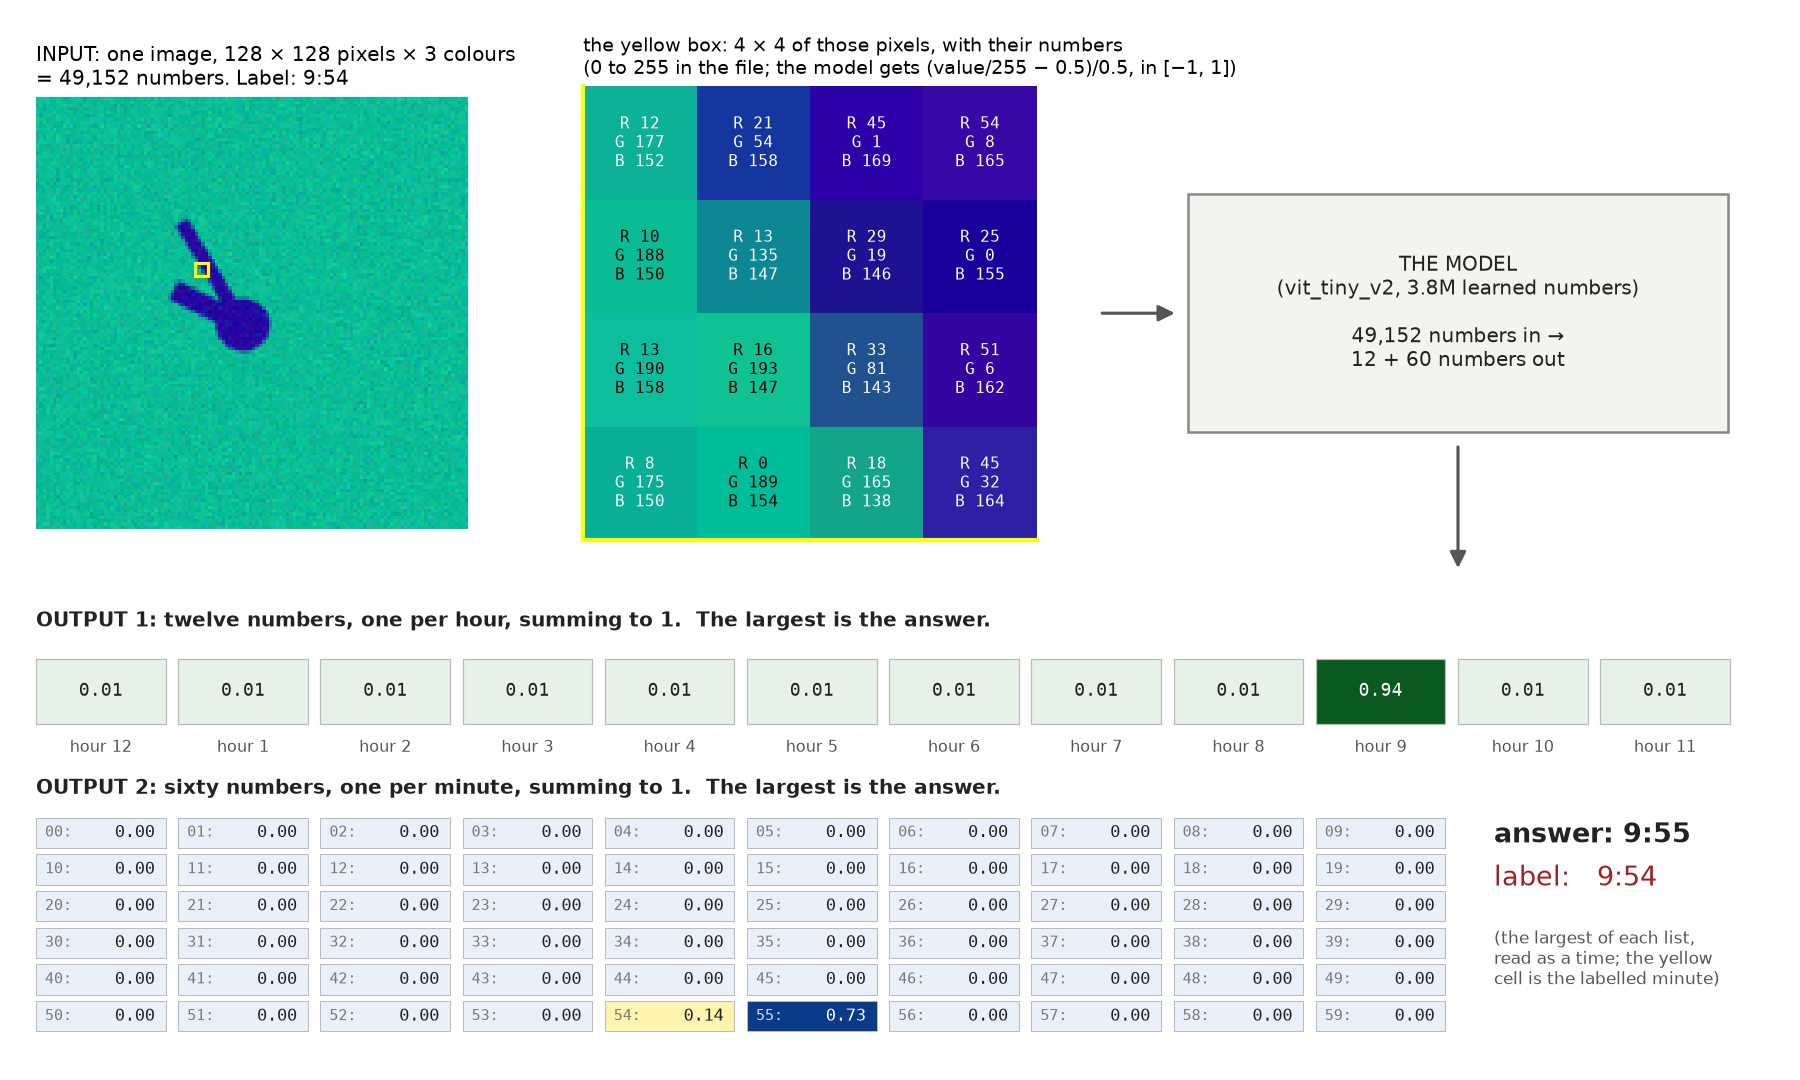
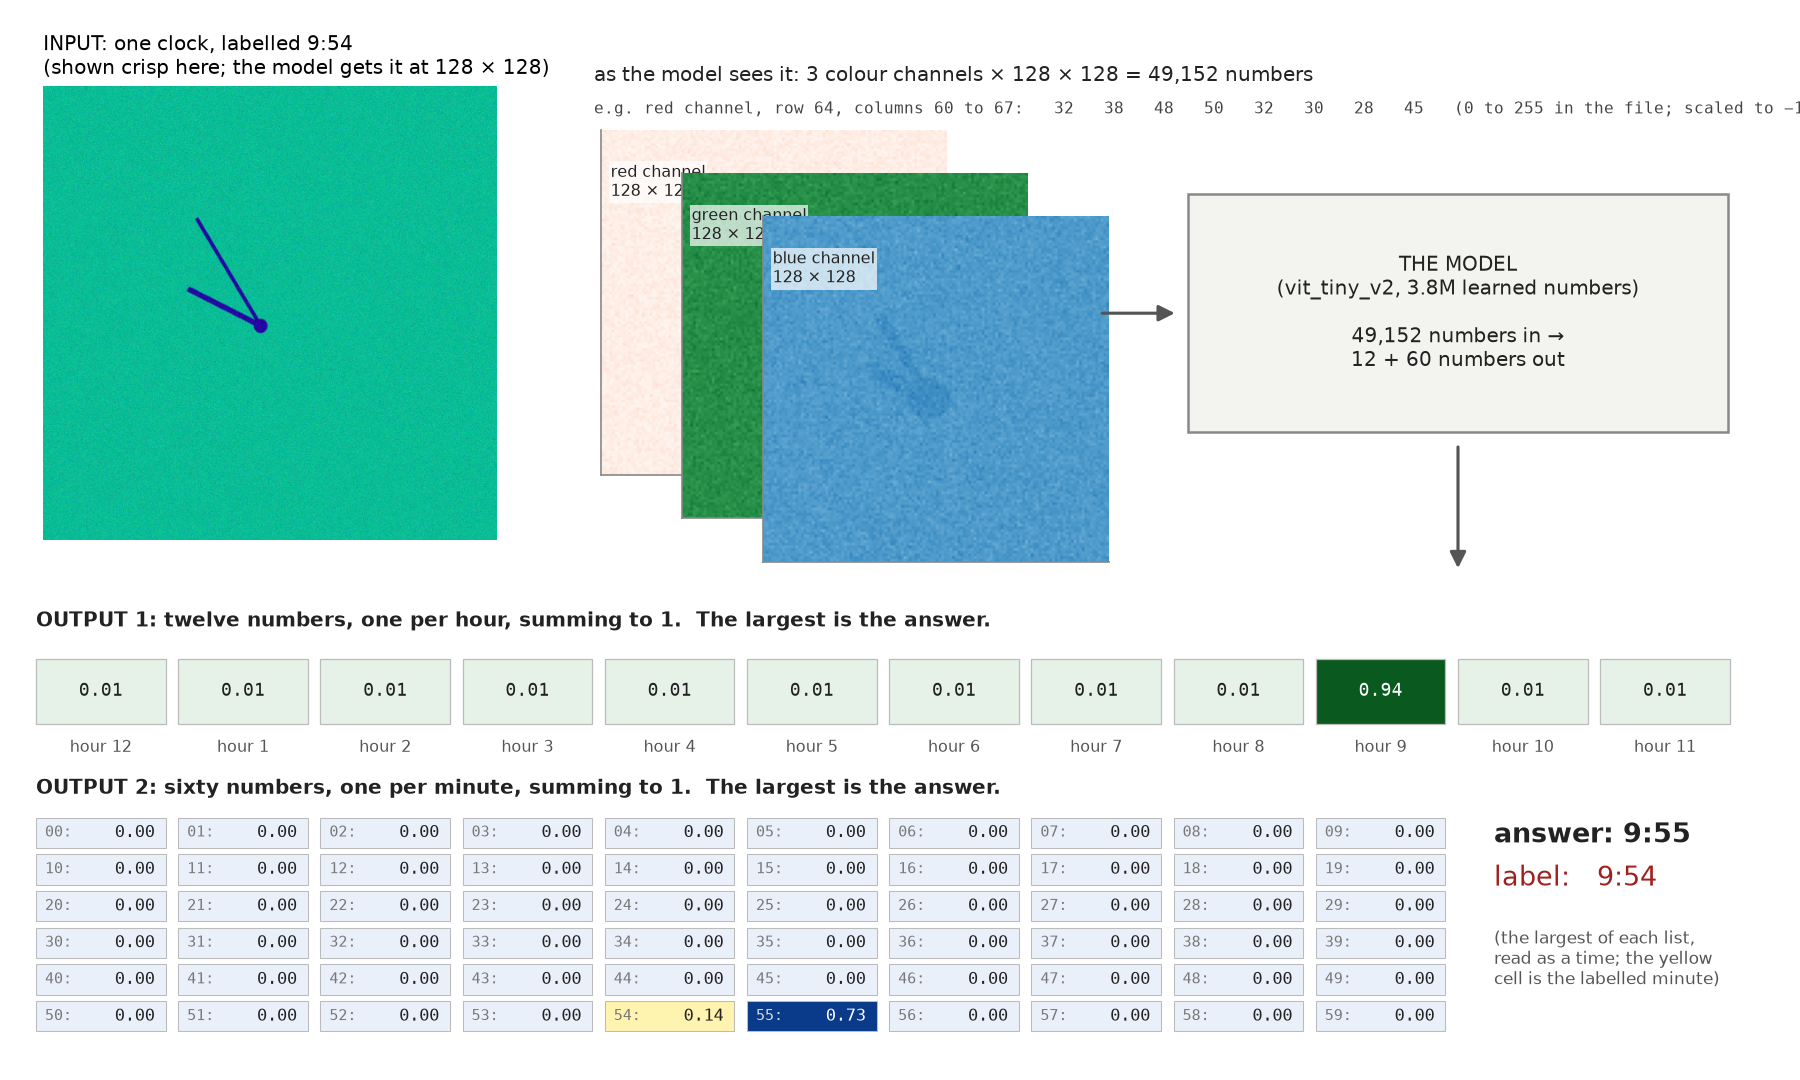
Input shown as channels, not blown-up pixels

diff --git a/_posts/2026-09-15-clocks-part-2-models.md b/_posts/2026-09-15-clocks-part-2-models.md
@@ -127,13 +127,13 @@ for the minute, each list summing to one. The model's answer is the
 largest entry in each list.
 
 Here is what that means as literal numbers, for one held-out clock. The
-yellow box on the image is 16 of its 16,384 pixels, and the enlarged block
-shows the three numbers each of those pixels is made of. Those, times
-16,384, are what the model receives. What it returns is printed below the
-model: twelve numbers and sixty numbers. Its answer is the largest of each
-list.
+image is stored as three grids of 128 by 128 values, one for red, one for
+green, one for blue, and a row of the actual values is printed under them.
+Those 49,152 numbers are what the model receives. What it returns is
+printed below the model: twelve numbers and sixty numbers. Its answer is
+the largest of each list.
 
-![The input as pixels with their numbers, the model, and the output as the twelve and sixty numbers it returns](/assets/clocks/io_numbers.png){: .no-invert}
+![The input as a clock and its three colour channels, the model, and the output as the twelve and sixty numbers it returns](/assets/clocks/io_numbers.png){: .no-invert}
 
 The model put 0.94 on hour 9, and on the minute list 0.73 on 55 and 0.14
 on 54. Its answer is 9:55. The label, the yellow cell, is 9:54. So this
